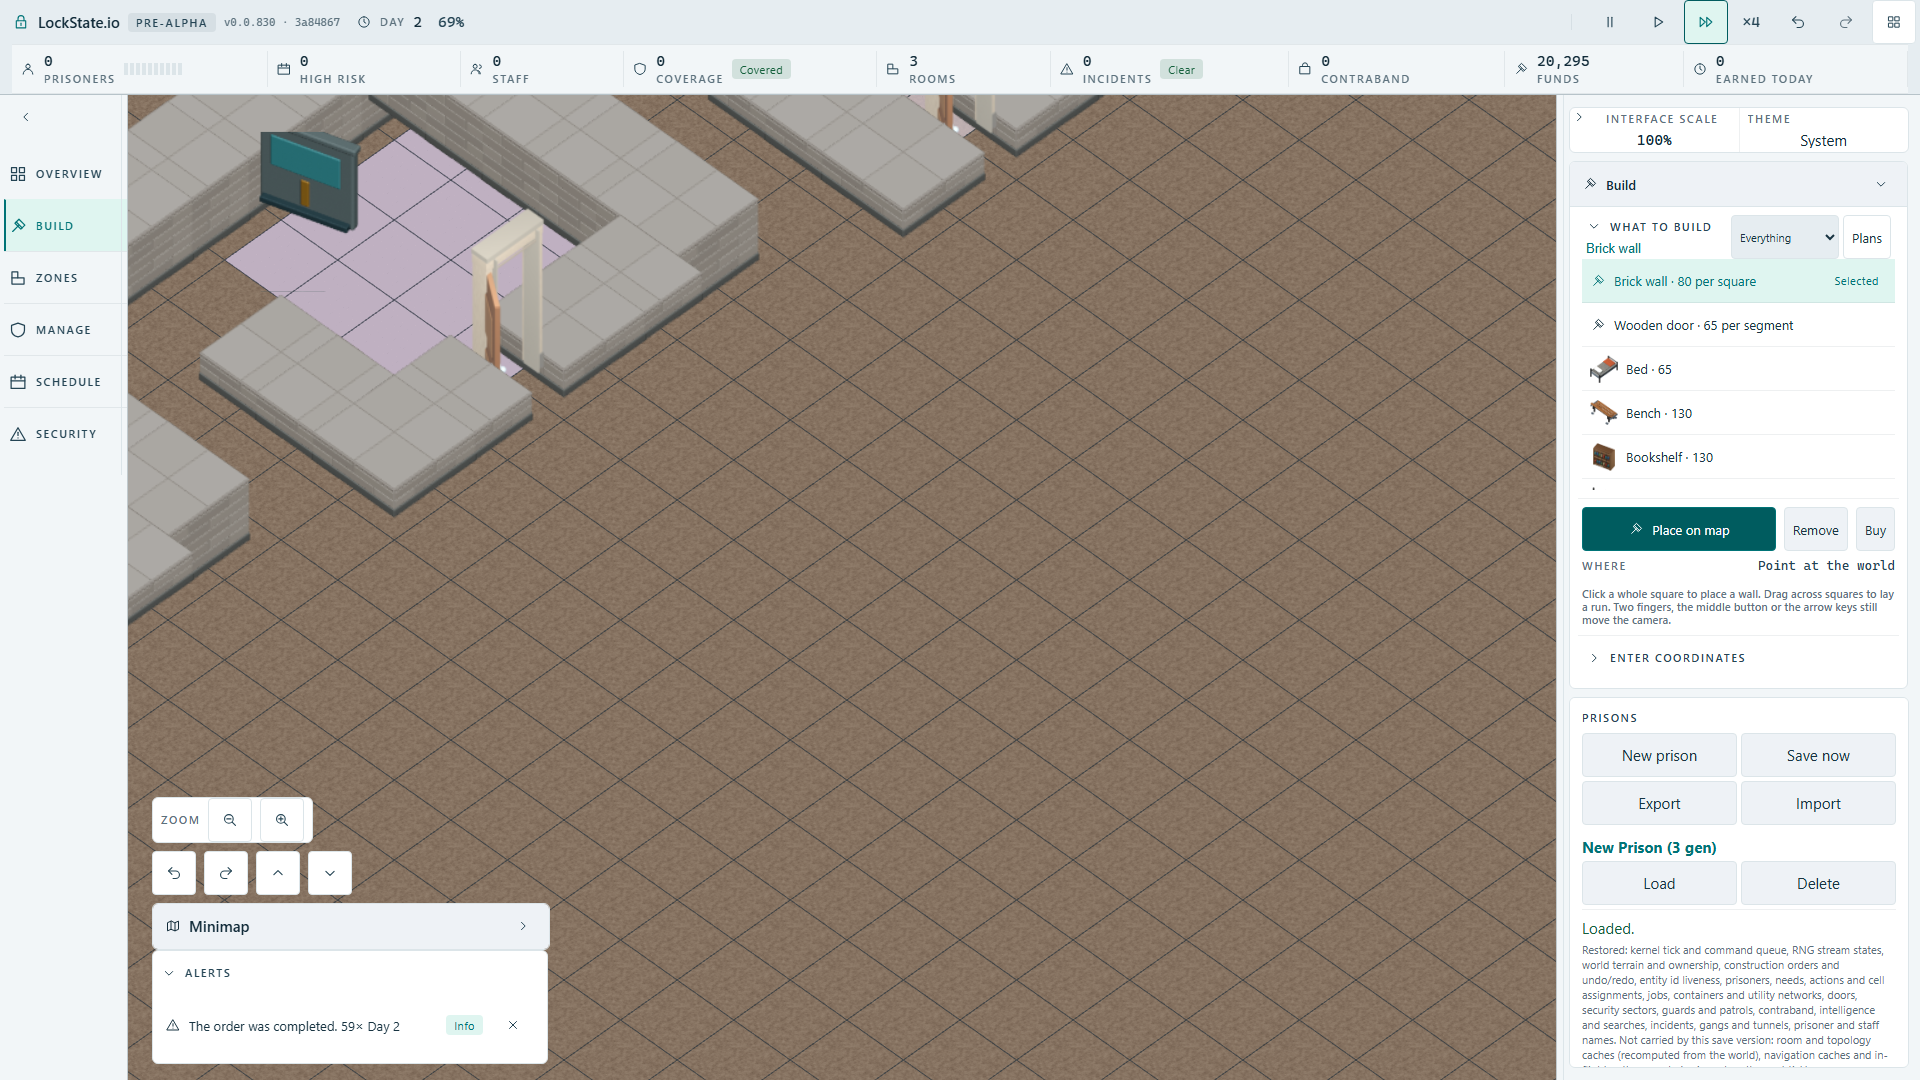
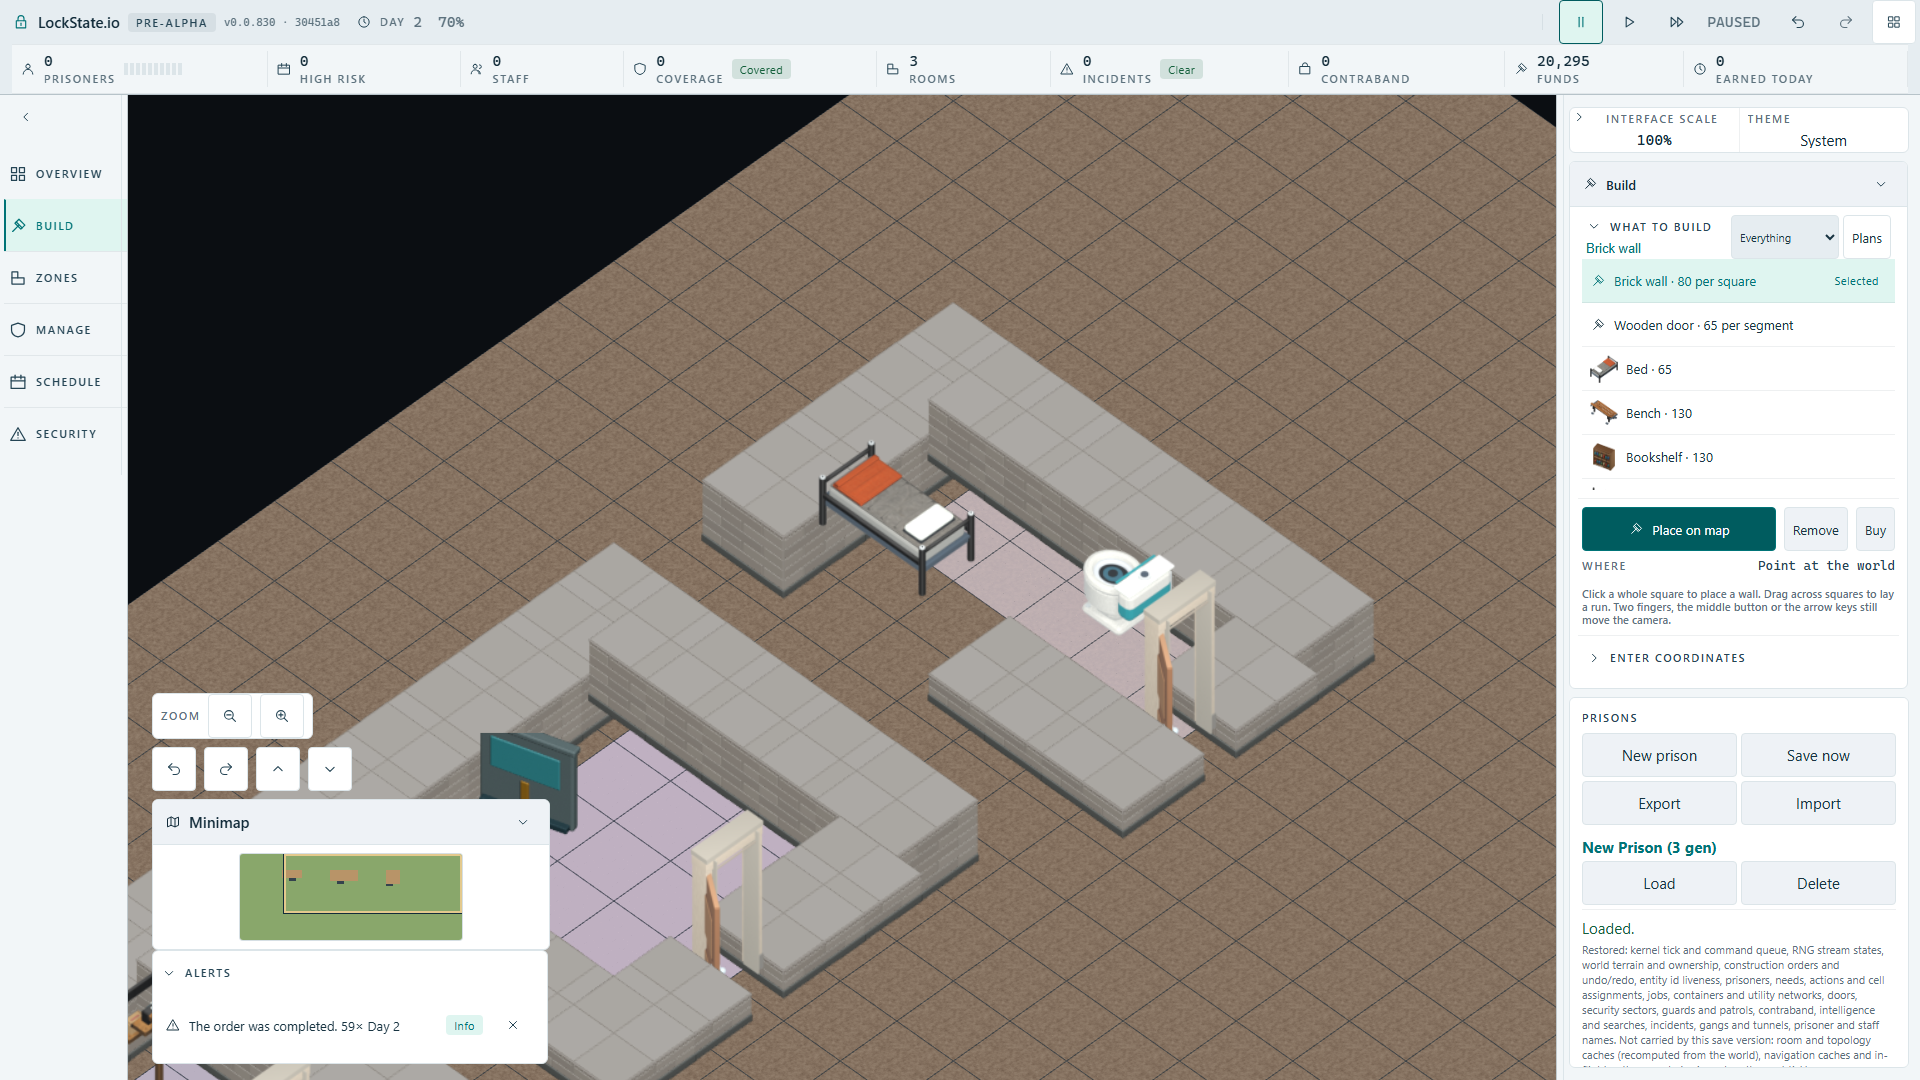
docs: record approved preview and centred Cell acceptance

diff --git a/docs/design/2026-09-28-adjustable-camera/README.md b/docs/design/2026-09-28-adjustable-camera/README.md
@@ -479,3 +479,13 @@ The first-Cell player path is accepted on the integration branch: two serial act
 Held world arrows now stop on focus entering the catalogue radiogroup (#1943). The actual browser regression is green2/2, production release mutation red1/2 and restored green2/2; root input tests pass43/43 with TypeScript. Authored Common Room bench source,72poses and context are integrated, with12 related tests green; actual player proof remains assigned to art. New room-card fixture/door diagrams remain on the HUD agent branch pending actual Full HD acceptance.
 
 Main serial CI36948369126 and staging Deploy36955209725 both succeeded for the independently landed angled composition. The deploy's production job was skipped. Direct reads of both public hosts returned403 from this tool environment, so current public version and runtime pixels are not independently confirmed. PR1899's outdated body was replaced with the current scope, verified evidence, dependency chain and three pending owner decisions.
+
+## Full-preview decision and readable room plans: integrated checkpoint
+
+The owner reconfirmed option3: show the whole pattern, pan the camera, retain the chosen construction origin until the next physical mouse movement. This is the existing integrated policy; the confirmation does not release any unrelated pending persistence decision.
+
+The follow-up first-Cell capture now passes both real player stages again (43.9s and28.2s). Root inspected the centred complete Cell with bed, toilet and doorway after loading the actual furnished-route save. Common Room upholstered bench player build and Save/Load evidence is also integrated, with context-selector mutation red followed by restored green.
+
+All20 room-card miniatures now group furniture by its full occupied footprint and distinguish doors by shape. Actual Full HD acceptance is green, changing the production bed rectangle to a single-square span is red, and restoration is green. Root inspected the catalogue screenshot. The selected large diagram still uses per-square furniture dots; the HUD agent is improving that separate surface next. Root verifies110 focused miniature, projection, design-token and research-index cases, plus TypeScript. This is not a fresh full-suite or production-release claim.
+
+Shallow-angle actual picking at yaw30/elevation25 degrees places the Basic cell at the square indicated by the ghost. The central placement case passes1/1; inverse-projection unit mutation previously produced3 failures before restoration. Blender work proceeds on a Classroom-only chair variant inside the existing1x1 footprint, keeping object identity, cost and saved-state semantics unchanged. Three agents continue on art, camera lifecycle and the selected room diagram. Changes and evidence are pushed to GitHub.

diff --git a/docs/research/2026-10-02-first-cell-delivery-bootstrap/README.md b/docs/research/2026-10-02-first-cell-delivery-bootstrap/README.md
@@ -7,3 +7,5 @@ Reapplying the reviewed living-carrier guard makes those exact two cases pass; t
 The actual player acceptance uses the real Room plans dialog for all three placements. It consists of two serial production-artifact stages under the existing 60-second per-test and 10-second per-expect limits. Stage one builds and furnishes Storage Room and Delivery Bay with zero prisoners, saves through the UI and captures that browser's real IndexedDB storage state. Stage two opens a fresh browser context from that state, loads through the UI, confirms the same two rooms and zero prisoners, then places Basic cell and waits for actual construction completion. Both stages assert their exact observed player commands; no construction command is injected. Each queue transition must make progress within the existing expect budget. This preserves the whole path instead of increasing the timeout for the original combined scenario.
 
 Baseline passes2/2 (42.3s and25.3s). Removing only the production living-carrier guard leaves the first stage green and makes the second fail with18 unfinished orders; its construction queue cannot advance within10s. Restoring exact source bytes, rebuilding the production artifact and rerunning passes2/2 (43.1s and25.1s). The [furnished route with zero prisoners](furnished-route-zero-prisoners-fullhd.png) and [first Cell after loading](first-cell-after-furnished-route-fullhd.png) are screenshots from the restored green run. Root separately proves the live and serialized kernel cases and the original route after a living prisoner exists. This is accepted integration-branch behaviour, not a production-release claim.
+
+The follow-up capture centres the actual completed Cell through the normal minimap. Both unchanged production stages pass again (43.9s and28.2s), with no increased test or queue-progress budget. Root opened the refreshed Full HD frame and confirmed the complete Cell, bed, toilet, doorway and camera-facing wall cutaway are visible. The frame replaces the earlier neighbouring-room composition; the production-route mutation evidence above remains unchanged.
